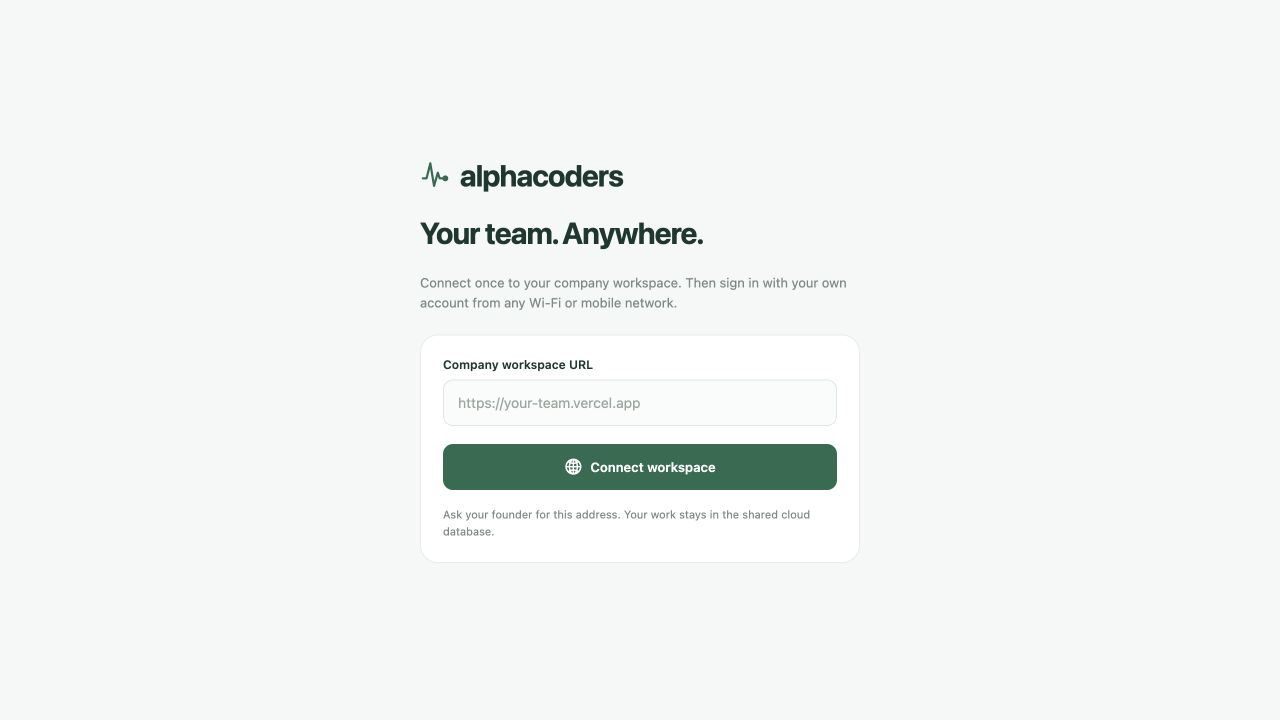
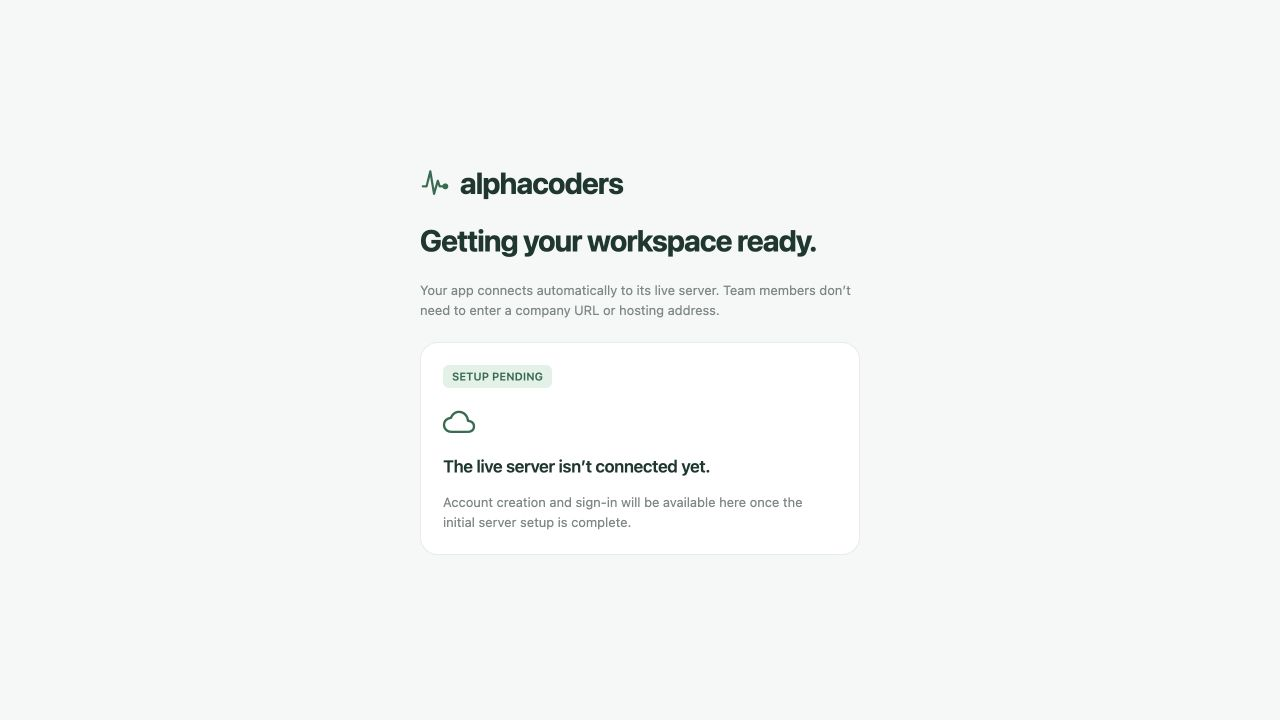
Remove obsolete hosting URL setup from Android startup

Changed region(s): [[0.3438, 0.4889, 0.6562, 0.7639], [0.3125, 0.3056, 0.6562, 0.4583], [0.3125, 0.2139, 0.5, 0.275]]

diff --git a/src/components/CloudGate.tsx b/src/components/CloudGate.tsx
@@ -1,74 +1,21 @@
-import React, { useEffect, useState } from 'react';
-import { View, Text, ScrollView, ActivityIndicator } from 'react-native';
+import React, { useEffect } from 'react';
+import { View, Text, ScrollView } from 'react-native';
 import AsyncStorage from '@react-native-async-storage/async-storage';
-import { supabase, configureSupabase } from '../lib/supabase';
+import { supabase } from '../lib/supabase';
 import { cancelNotifications } from '../lib/notifications';
-import { validateCloudConfig, workspaceConfigUrl } from '../lib/cloudConfig';
-import { Button, Field, Card, ErrorText, Icon, C, s } from './ui';
+import { Card, Icon, Tag, C, s } from './ui';
 
-const CONFIG_KEY = 'alphacoders-cloud-v1';
 export function CloudGate({ children }: { children: React.ReactNode }) {
-  const [state, setState] = useState<'loading' | 'connect' | 'ready'>(
-    supabase ? 'ready' : 'loading',
-  );
-  const [url, setUrl] = useState(''),
-    [error, setError] = useState(''),
-    [busy, setBusy] = useState(false);
   useEffect(() => {
-    // Retire samples and local reminders left by earlier preview builds.
-    Promise.all([AsyncStorage.removeItem('pulse-demo-v1'), cancelNotifications()]).catch(() => {});
-    if (supabase) return;
-    let active = true;
-    AsyncStorage.getItem(CONFIG_KEY)
-      .then((value) => {
-        if (!active) return;
-        if (value) {
-          const config = validateCloudConfig(JSON.parse(value));
-          configureSupabase(config.supabaseUrl, config.supabaseAnonKey);
-          setState('ready');
-        } else setState('connect');
-      })
-      .catch(() => {
-        if (active) setState('connect');
-      });
-    return () => {
-      active = false;
-    };
+    // Retire preview records and the old user-entered hosting configuration.
+    Promise.all([
+      AsyncStorage.multiRemove(['pulse-demo-v1', 'alphacoders-cloud-v1']),
+      cancelNotifications(),
+    ]).catch(() => {});
   }, []);
-  async function connect() {
-    setBusy(true);
-    setError('');
-    const controller = new AbortController();
-    const timeout = setTimeout(() => controller.abort(), 15000);
-    try {
-      const response = await fetch(workspaceConfigUrl(url), {
-        signal: controller.signal,
-        headers: { Accept: 'application/json' },
-      });
-      if (!response.ok)
-        throw new Error('The workspace server is not ready. Check the URL with your founder.');
-      const config = validateCloudConfig(await response.json());
-      await AsyncStorage.setItem(CONFIG_KEY, JSON.stringify(config));
-      configureSupabase(config.supabaseUrl, config.supabaseAnonKey);
-      setState('ready');
-    } catch (e: any) {
-      setError(
-        e.name === 'AbortError'
-          ? 'The server took too long to respond. Check your internet connection.'
-          : e.message,
-      );
-    } finally {
-      clearTimeout(timeout);
-      setBusy(false);
-    }
-  }
-  if (state === 'ready') return <>{children}</>;
-  if (state === 'loading')
-    return (
-      <View style={{ flex: 1, backgroundColor: C.bg, justifyContent: 'center' }}>
-        <ActivityIndicator color={C.green} />
-      </View>
-    );
+
+  if (supabase) return <>{children}</>;
+
   return (
     <ScrollView
       contentContainerStyle={{
@@ -78,29 +25,24 @@ export function CloudGate({ children }: { children: React.ReactNode }) {
         justifyContent: 'center',
         alignItems: 'center',
       }}
-      keyboardShouldPersistTaps="handled"
     >
       <View style={{ maxWidth: 440, width: '100%', gap: 22 }}>
         <View style={[s.row, { gap: 10 }]}>
           <Icon name="pulse" color={C.green} size={30} />
           <Text style={s.title}>alphacoders</Text>
         </View>
-        <Text style={s.title}>Your team. Anywhere.</Text>
+        <Text style={s.title}>Getting your workspace ready.</Text>
         <Text style={s.body}>
-          Connect once to your company workspace. Then sign in with your own account from any Wi-Fi
-          or mobile network.
+          Your app connects automatically to its live server. Team members don’t need to enter a
+          company URL or hosting address.
         </Text>
-        <Card>
-          <Field
-            label="Company workspace URL"
-            value={url}
-            onChangeText={setUrl}
-            placeholder="https://your-team.vercel.app"
-          />
-          <ErrorText text={error} />
-          <Button title="Connect workspace" icon="globe-outline" loading={busy} onPress={connect} />
-          <Text style={[s.small, { marginTop: 16 }]}>
-            Ask your founder for this address. Your work stays in the shared cloud database.
+        <Card style={{ gap: 16 }}>
+          <Tag text="SETUP PENDING" />
+          <Icon name="cloud-outline" color={C.green} size={32} />
+          <Text style={s.h2}>The live server isn’t connected yet.</Text>
+          <Text style={s.body}>
+            Account creation and sign-in will be available here once the initial server setup is
+            complete.
           </Text>
         </Card>
       </View>

diff --git a/tests/cloud-config.test.ts b/tests/cloud-config.test.ts
@@ -1,24 +1,11 @@
 import { test } from 'node:test';
 import assert from 'node:assert/strict';
-import { validateCloudConfig, workspaceConfigUrl } from '../src/lib/cloudConfig.ts';
+import { validateCloudConfig } from '../src/lib/cloudConfig.ts';
 const publicConfig = {
   version: 1,
   supabaseUrl: 'https://example.supabase.co',
   supabaseAnonKey: 'sb_publishable_example_public_key_only',
 };
-test('the APK can use either public hosting provider without a LAN address', () => {
-  assert.equal(
-    workspaceConfigUrl('https://alphacoders.vercel.app'),
-    'https://alphacoders.vercel.app/app-config.json',
-  );
-  assert.equal(
-    workspaceConfigUrl('https://alphacoders.onrender.com'),
-    'https://alphacoders.onrender.com/app-config.json',
-  );
-  assert.throws(() => workspaceConfigUrl('http://192.168.1.10:8081'));
-  assert.throws(() => workspaceConfigUrl('https://localhost'));
-  assert.throws(() => workspaceConfigUrl('https://user:password@example.com'));
-});
 test('runtime cloud configuration accepts public keys and rejects privileged keys', () => {
   assert.equal(validateCloudConfig(publicConfig).supabaseUrl, 'https://example.supabase.co');
   assert.throws(() =>

diff --git a/src/lib/cloudConfig.ts b/src/lib/cloudConfig.ts
@@ -41,18 +41,3 @@ export function validateCloudConfig(value: unknown): CloudConfig {
   if (key.length < 25) throw new Error('The server’s public database key is incomplete.');
   return { version: 1, supabaseUrl: url.origin, supabaseAnonKey: key };
 }
-
-export function workspaceConfigUrl(input: string): string {
-  const url = new URL(input.trim());
-  if (
-    url.protocol !== 'https:' ||
-    url.username ||
-    url.password ||
-    url.search ||
-    url.hash ||
-    ['localhost', '127.0.0.1', '[::1]'].includes(url.hostname)
-  ) {
-    throw new Error('Enter your hosted workspace HTTPS URL, not a local Wi-Fi address.');
-  }
-  return `${url.origin}/app-config.json`;
-}

diff --git a/src/lib/supabase.ts b/src/lib/supabase.ts
@@ -28,7 +28,4 @@ function makeClient(url: string, key: string) {
     },
   });
 }
-export let supabase = url && key ? makeClient(url, key) : null;
-export function configureSupabase(url: string, key: string) {
-  supabase = makeClient(url, key);
-}
+export const supabase = url && key ? makeClient(url, key) : null;

diff --git a/README.md b/README.md
@@ -13,7 +13,7 @@ npm ci
 npm run dev
 ```
 
-Open http://localhost:8081. With no configured server, the app shows the company-workspace connection screen. After a real server is connected, sign in or create an account. New workspaces contain no projects or work updates until real users create them. There is no demo mode or sample-data fallback.
+Open http://localhost:8081. With no configured server, the app shows the server-setup-pending screen. After a real server is connected, sign in or create an account. New workspaces contain no projects or work updates until real users create them. There is no demo mode or sample-data fallback.
 
 For Android UI development, use `npm run android` with a compatible emulator or phone. For native notification testing use a development build, not Expo Go. SDK 58 development builds are recommended; see [Expo setup](https://docs.expo.dev/get-started/set-up-your-environment/).
 
@@ -35,7 +35,7 @@ Project progress is the average of each contributor’s **latest reported percen
 
 ## Internet-connected APK and hosting
 
-See [cloud deployment status and instructions](docs/CLOUD-DEPLOYMENT.md). The selected hosting stack is Vercel + Supabase + Firebase for this personal, non-commercial project. The APK has a company-workspace URL setup screen and caches public cloud configuration. It does not need the same Wi-Fi as the development computer. Native Android push also requires Firebase resources in the APK and Expo/FCM project credentials.
+See [cloud deployment status and instructions](docs/CLOUD-DEPLOYMENT.md). The Android app connects directly to Supabase, with Firebase-backed Android notifications. Vercel is optional for the web dashboard. Backend connection details are configured at build time; team members never enter a hosting URL. It does not need the same Wi-Fi as the development computer. Native Android push also requires Firebase resources in the APK and Expo/FCM project credentials.
 
 ## Connect live accounts and team data
 
@@ -66,7 +66,7 @@ npx expo start --dev-client
 npx eas-cli@latest build --platform android --profile preview
 ```
 
-Set the public Supabase/EAS values and `GOOGLE_SERVICES_JSON` in the EAS environment for the build profile. A build configured with no backend values opens the workspace connection screen. `npm run build:android` exports the JS/Hermes bundle; **it does not create an APK**. A locally signed release APK is available at `artifacts/alphacoders.apk`. It has a workspace URL setup screen, but live cloud services are not deployed yet and Firebase configuration is not included in this build. No Play Store release has been generated.
+Set the public Supabase/EAS values and `GOOGLE_SERVICES_JSON` in the EAS environment for the build profile. A build configured with no backend values opens the server-setup-pending screen. `npm run build:android` exports the JS/Hermes bundle; **it does not create an APK**. A locally signed release APK is available at `artifacts/alphacoders.apk`. It opens sign-in automatically when a backend is configured; live cloud services are not deployed yet and Firebase configuration is not included in this build. No Play Store release has been generated.
 
 ## Deploy the reminder worker
 

diff --git a/docs/CLOUD-DEPLOYMENT.md b/docs/CLOUD-DEPLOYMENT.md
@@ -1,6 +1,6 @@
 # alphacoders cloud deployment
 
-Current implemented backend: Supabase + Firebase Cloud Messaging, with a Vercel-hosted web frontend for this personal/non-commercial project. A Neon-based backend has been discussed but is not implemented yet.
+Current implemented backend: Supabase + Firebase Cloud Messaging, with an optional Vercel-hosted web frontend. Vercel is not required for the Android app. A Neon-based backend has been discussed but is not implemented yet.
 
 The native APK contains its JavaScript bundle. It does not require Metro, a computer, or the same Wi-Fi after installation. Shared data still requires internet access and a deployed Supabase project.
 
@@ -35,11 +35,11 @@ The build supports ARM64 and ARMv7 phones; it is not an x86 emulator build.
 
 Signing material is saved under ignored `.credentials/` with restricted permissions. Preserve it privately for future updates. Do not distribute signing keys or passwords with the APK.
 
-At first launch, enter the deployed Vercel HTTPS URL into **Company workspace URL**. The app downloads and stores public connection metadata, then opens individual account sign-in. Subsequent launches use the saved configuration. There is no demo entry point or sample data in the application. New workspaces start empty.
+Set the public Supabase URL and publishable/anon key in the build environment before compiling the APK. It then opens account sign-in automatically. Without configuration it shows a clear setup-pending screen; there is no user-entered hosting URL. There is no demo entry point or sample data in the application. New workspaces start empty.
 
 ## Android push
 
-Firebase's Android registration must match `com.pulseteam.app`. Set `GOOGLE_SERVICES_JSON` before generating native directories/building. The Firebase configuration file is required in the native build; entering a workspace URL later cannot add native Firebase resources.
+Firebase's Android registration must match `com.pulseteam.app`. Set `GOOGLE_SERVICES_JSON` before generating native directories/building. The Firebase configuration file is required in the native build; Firebase resources must be present before compiling the APK.
 
 The current implementation uses Expo Push Service backed by FCM. It also needs an EAS project ID and FCM v1 credentials registered for that project. `EXPO_PUBLIC_EAS_PROJECT_ID` is a public ID, not a secret. Server credentials remain in Firebase/EAS, not in the APK or Vercel frontend.
 
